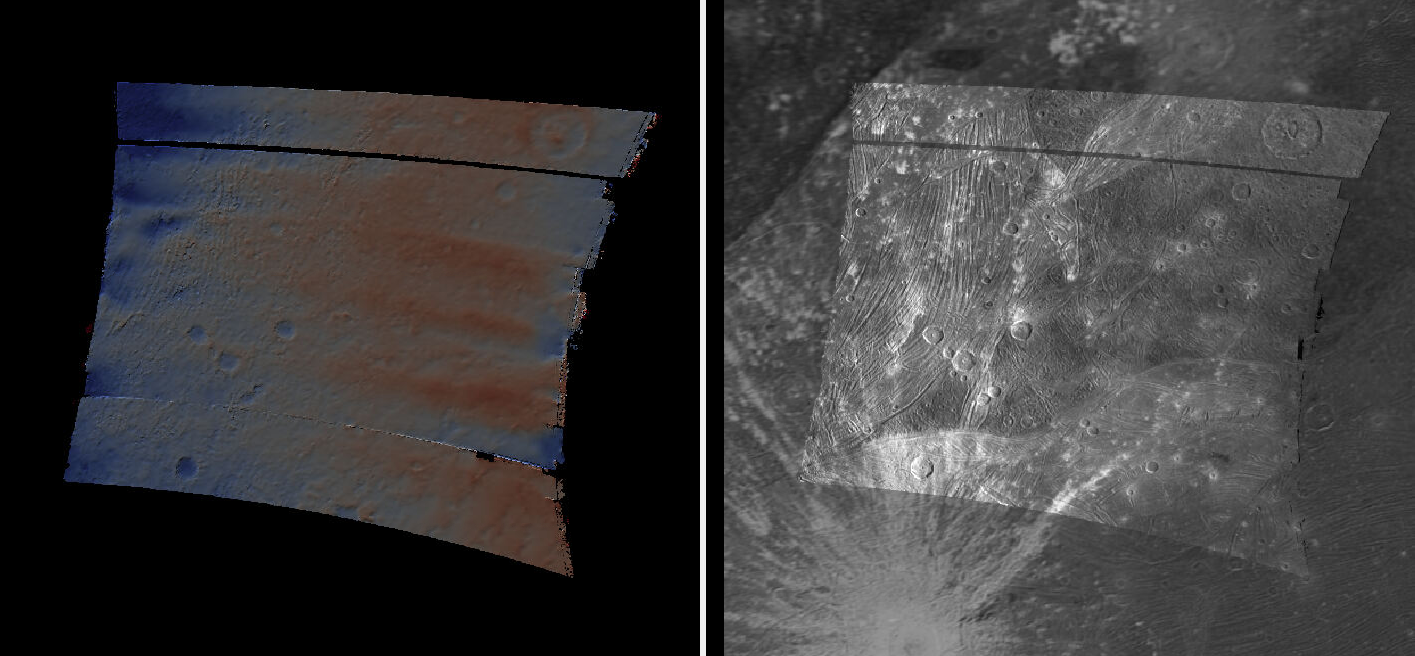
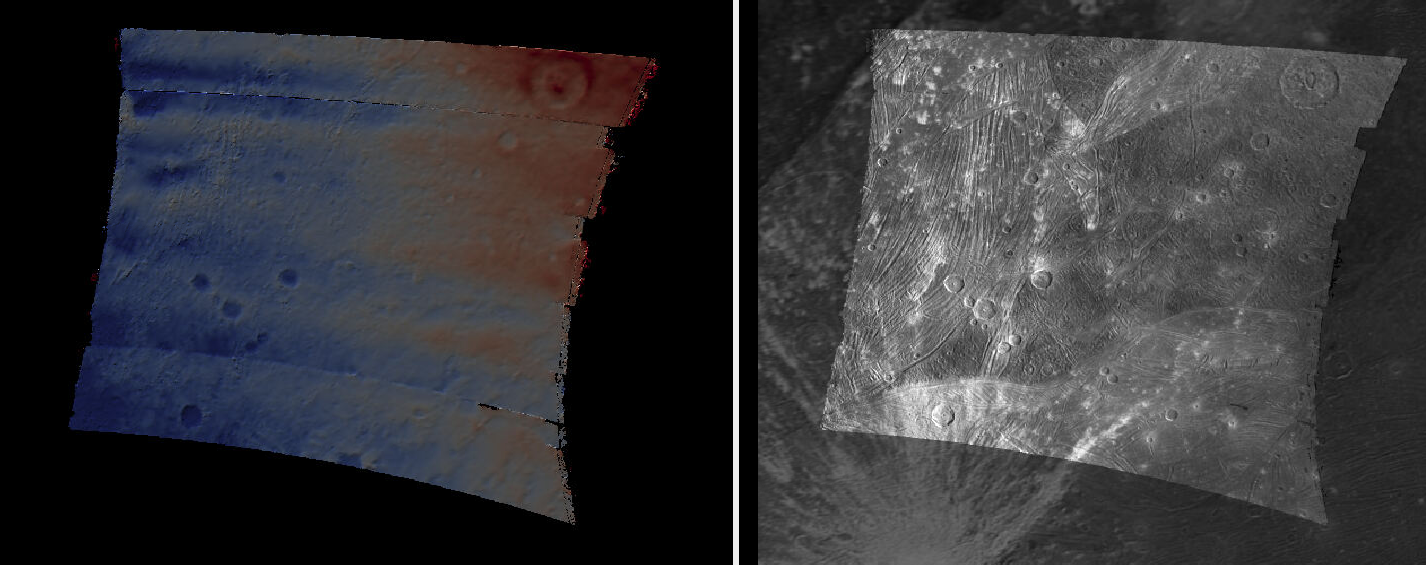
Show how to refine JunoCam intrinsics

diff --git a/docs/examples/junocam.rst b/docs/examples/junocam.rst
@@ -177,16 +177,17 @@ We ran ``parallel_stereo`` on each pair of images having ``34C00001`` vs
     r=JNCR_2021158_34C00002_V01_0010
     pref=stereo_map/${l}_${r}/run
 
-    parallel_stereo                 \
-      map/$l.map.tif map/$r.map.tif \
-      img/$l.cub img/$r.cub         \
-      --bundle-adjust-prefix ba/run \
-      --ip-per-image 20000          \
-      --stereo-algorithm asp_mgm    \
-      --subpixel-mode 9             \
-      --subpixel-kernel 7 7         \
-      --nodata-value 0              \
-      ${pref}                       \
+    parallel_stereo                      \
+      map/$l.map.tif map/$r.map.tif      \
+      img/$l.cub img/$r.cub              \
+      --bundle-adjust-prefix ba/run      \
+      --ip-per-image 20000               \
+      --stereo-algorithm asp_mgm         \
+      --subpixel-mode 9                  \
+      --subpixel-kernel 7 7              \
+      --nodata-value 0                   \
+      --num-matches-from-disparity 10000 \
+      ${pref}                            \
       ref/flat_dem.tif
 
 Here we used a small ``subpixel-kernel`` of 7 x 7 pixels, to ensure as little as
@@ -216,16 +217,119 @@ This was followed by mosaicking of DEMs and orthoimages with ``dem_mosaic``
 .. figure:: ../images/junocam_dem_drg.png
 
   Left: Mosaicked DEM created from stereo of JunCam images. The color range
-  corresponds to elevations between about -2500 and 1300 meters. Right: produced
+  corresponds to elevations between about -1500 and 1500 meters. Right: produced
   JunoCam orthoimage overlaid on top of the Voyager-Galileo global mosaic.
 
 The results of this processing are shown in the figure above. Three things are notable:
 
   - The image registration is pixel-level.
-  - There are some gaps/seams at the top and bottom. Those can be eliminated
+  - There are some seams at the top and bottom. Those can be eliminated
     with more images.
   - There are systematic artifacts in the elevations.
   
 The latter issue is likely due to not well-modeled distortion and TDI effects,
-given the JunoCam camera design.
+given the JunoCam camera design. This will be fixed in the next section.
 
+Intrinsics refinement
+~~~~~~~~~~~~~~~~~~~~~
+
+.. _junocam_opt:
+.. figure:: ../images/junocam_dem_opt.png
+
+  Left: The earlier mosaicked DEM created from stereo of JunCam images. Right:
+  the produced DEM after optimizing the lens distortion with a DEM constraint.
+  The same range of elevations is used as earlier. The systematic artifacts are
+  much less pronounced.
+
+To address the systematic elevation artifacts, we will refine the intrinsics and
+extrinsics of the cameras, while using the zero elevation DEM as a ground
+constraint (with an uncertainty).
+
+The approach in :numref:`ba_frame_linescan` is followed.
+
+We will make use of dense matches from disparity, as in :numref:`dense_ip`. The
+option for that, ``--num-matches-from-disparity``, was already set in the stereo
+runs above. 
+
+These matches will augment existing sparse matches in the ``ba`` directory. For
+that, first the sparse matches will be copied to a new directory, called
+``dense_matches``. Then, we will copy on top the small number of dense matches
+from each stereo directory above, while removing the string ``-disp`` from each
+such file name, and ensuring each corresponding sparse match file is overwritten.
+
+It is necessary to create CSM cameras (:numref:`csm`) for the JunoCam images, to
+be able to optimize the intrinsics. For the first camera, that is done with the
+``cam_gen`` program (:numref:`cam_gen`), with a command such as::
+
+    cam_gen img/JNCR_2021158_34C00001_V01_0010.cub          \
+      --input-camera img/JNCR_2021158_34C00001_V01_0010.cub \
+      --reference-dem ref/flat_dem.tif                      \
+      --focal-length 1480.5905405405405405                  \
+      --optical-center 814.21 600.0                         \
+      --pixel-pitch 1                                       \
+      --refine-camera                                       \
+      --refine-intrinsics distortion                        \
+      -o csm/JNCR_2021158_34C00001_V01_0010.json
+      
+The values for the focal length (in pixels) and optical center (in pixels) were
+obtained by peeking in the .cub file metadata.
+
+The resulting lens distortion model is not the one for JunoCam, which has two
+distortion parameters, but rather the OpenCV radial-tangential model with five
+parameters (:numref:`csm_frame_def`).
+
+The ``cam_test`` program (:numref:`cam_test`) can help validate that the camera
+is converted well. 
+
+The intrinsics of this camera are transferred without further optimization 
+to the other cameras as::
+
+    sample=csm/JNCR_2021158_34C00001_V01_0010.json
+    for f in                                         \
+      img/JNCR_2021158_34C0000[1-2]_V01_0009.cub     \
+      img/JNCR_2021158_34C0000[1-2]_V01_001[0-3].cub \
+      ; do 
+      g=${f/.cub/.json}
+      g=csm/$(basename $g)
+      cam_gen $f                                     \
+        --input-camera $f                            \
+        --sample-file $sample                        \
+        --reference-dem ref/flat_dem.tif             \
+        --pixel-pitch 1                              \
+        --refine-camera                              \
+        --refine-intrinsics none                     \
+        -o $g
+    done
+
+Next, bundle adjustment is run, with the previously optimized adjustments that
+reflect the registration to the reference Voyager-Galileo mosaic::
+
+    bundle_adjust                                     \
+      img/JNCR_2021158_34C0000[1-2]_V01_0009.cub      \
+      img/JNCR_2021158_34C0000[1-2]_V01_001[0-3].cub  \
+      csm/JNCR_2021158_34C0000[1-2]_V01_0009.json     \
+      csm/JNCR_2021158_34C0000[1-2]_V01_001[0-3].json \
+      --input-adjustments-prefix ba/run               \
+      --match-files-prefix dense_matches/run          \
+      --num-iterations 50                             \
+      --solve-intrinsics                              \
+      --intrinsics-to-float all                       \
+      --intrinsics-to-share all                       \
+      --heights-from-dem ref/flat_dem.tif             \
+      --heights-from-dem-uncertainty 5000             \
+      gcp/*.gcp                                       \
+      -o ba_rfne/run
+
+Lastly, stereo is run with the optimized model state camera files
+(:numref:`csm_state`) saved in ``ba_rfne``.
+
+
+The result is in :numref:`junocam_opt`.
+
+It was found that better DEMs are produced by re-mapprojecting with latest
+cameras and re-running stereo from scratch, rather than reusing stereo runs with
+the option ``--prev-run-prefix`` (:numref:`parallel_stereo`). Likely that is
+because the cameras change in non-small ways.
+
+With ISIS 9.0.0 and later, a CSM file produced as above can be embedded in 
+the .cub file to be used with ISIS (:numref:`embedded_csm`).

diff --git a/docs/examples/csm.rst b/docs/examples/csm.rst
@@ -1144,16 +1144,22 @@ If ``bundle_adjust`` (:numref:`bundle_adjust`) or ``jitter_solve``
 (:numref:`jitter_solve`) is run with CSM cameras, either embedded in ISIS cubes
 or specified separately, and the flag ``--update-isis-cubes-with-csm-state`` is
 set, then the optimized model states will be saved back to the ISIS cubes, while
-the SPICE and other obsolete information from the cubes will be deleted
-(``spiceinit`` can be used to restore the cubes). Separate model state files in
-the JSON format will be saved as well, as done without this option.
+the SPICE and other obsolete information from the cubes will be deleted.
+(Note that the and `spiceinit
+<https://isis.astrogeology.usgs.gov/Application/presentation/Tabbed/spiceinit/spiceinit.html>`_
+program can restore the cubes.)
+
+Separate model state files in the JSON format will be saved by ``bundle_adjust``
+as well, as done without this option.
 
 Note that if images are mapprojected with certain camera files, and then those
 camera files are updated in-place, this will result in wrong results if stereo
-is run with the mapprojected images and updated cameras.
+is run with the old mapprojected images and updated cameras.
   
-See also the `csminit
+The `csminit
 <https://isis.astrogeology.usgs.gov/Application/presentation/Tabbed/csminit/csminit.html>`_
-and `spiceinit
-<https://isis.astrogeology.usgs.gov/Application/presentation/Tabbed/spiceinit/spiceinit.html>`_
-documentation.
+program can also embed a .json model state file into a .cub file (in ISIS
+9.0.0 and later). Example::
+
+    csminit from = img.cub state = csm.json
+
